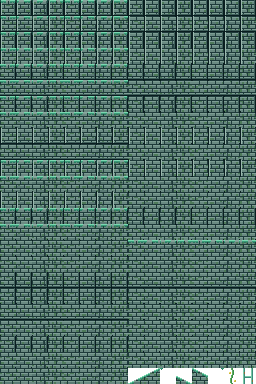
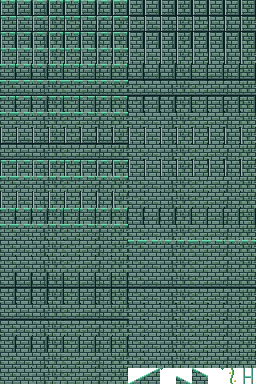
Tiles: rim shading, a shadow lip under the surface, varied round corners

diff --git a/src/tilebake.ts b/src/tilebake.ts
@@ -1,7 +1,7 @@
 import { NB } from './nb';
 import { make, px, Sprite } from './sprites';
 import { BLOCK_VARIANTS, BOT_H, TOP_H, TOP_W, TOP_Y, painter, type Tileset } from './tileset';
-import { canvasGrid, newGrid, type Grid } from './grid';
+import { canvasGrid, hexRgb, newGrid, type Grid } from './grid';
 import { BAKED_TILES } from './tilebaked';
 
 /* Turns a tileset's pieces (tileset.ts) into cached 16px sprites:
@@ -94,6 +94,12 @@ const K = {
   ladder: (ts: Tileset) => `${ts.name}|ladder`,
 };
 
+/** `a` mixed toward `b` by k (0..1), as #rrggbb. */
+function mix(a: string, b: string, k: number): string {
+  const x = hexRgb(a), y = hexRgb(b);
+  return '#' + x.map((v, i) => Math.round(v + (y[i] - v) * k).toString(16).padStart(2, '0')).join('');
+}
+
 /** A block tile for its neighbourhood (`nb`, see NB) in fill variant `v`.
  *  Exposed sides get the edge outline, shaped by the edge style; an exposed
  *  top gets the surface layer. */
@@ -101,7 +107,8 @@ export function block(ts: Tileset, nb: number, v: number): Sprite {
   return cached(ts, K.block(ts, nb, v), 16, 16, (s) => {
     const solid = (b: number) => (nb & b) !== 0;
     const n = !solid(NB.N), e = !solid(NB.E), so = !solid(NB.S), w = !solid(NB.W);
-    const { edge } = ts, r = edge.r;
+    // rounded tilesets vary their outer corners: half the variants a pixel rounder
+    const { edge } = ts, r = edge.r && edge.style === 'round' ? edge.r + (v >> 2) : edge.r;
     // chip: some 4px runs of an exposed side are knocked in by 1px (never at the tile's ends, so neighbours meet)
     const chip = (side: number, along: number): number =>
       edge.style === 'chip' && along > 1 && along < 14 && (side * 7 + (along >> 2) + v) % 3 === 0 ? 1 : 0;
@@ -137,7 +144,13 @@ export function block(ts: Tileset, nb: number, v: number): Sprite {
       } else if (n && topD === 0) col = edge.outer;
       else if (d === 0) col = edge.outer;
       else if (d === 1) col = edge.style === 'bevel' && dside === 3 && edge.light ? edge.light : edge.inner;
-      else col = v < 4 ? ts.fill(x, y, v) : ts.fill(15 - x, y, v - 4); // 4-7: 0-3's fill mirrored
+      else {
+        col = v < 4 ? ts.fill(x, y, v) : ts.fill(15 - x, y, v - 4); // 4-7: 0-3's fill mirrored
+        // depth: the fill shades toward the rim just inside an exposed side,
+        // and the surface layer casts a lip of shadow onto the fill under it
+        if (d === 2) col = mix(col, edge.inner, 0.35);
+        else if (n && topD > 0 && ts.surface(x, topD - 1, v & 3)) col = mix(col, '#000000', 0.22);
+      }
       // inner corners: both neighbours solid but the diagonal open
       if ((!n && !w && !solid(NB.NW) && x === 0 && y === 0) || (!n && !e && !solid(NB.NE) && x === 15 && y === 0) ||
           (!so && !w && !solid(NB.SW) && x === 0 && y === 15) || (!so && !e && !solid(NB.SE) && x === 15 && y === 15)) col = edge.outer;
